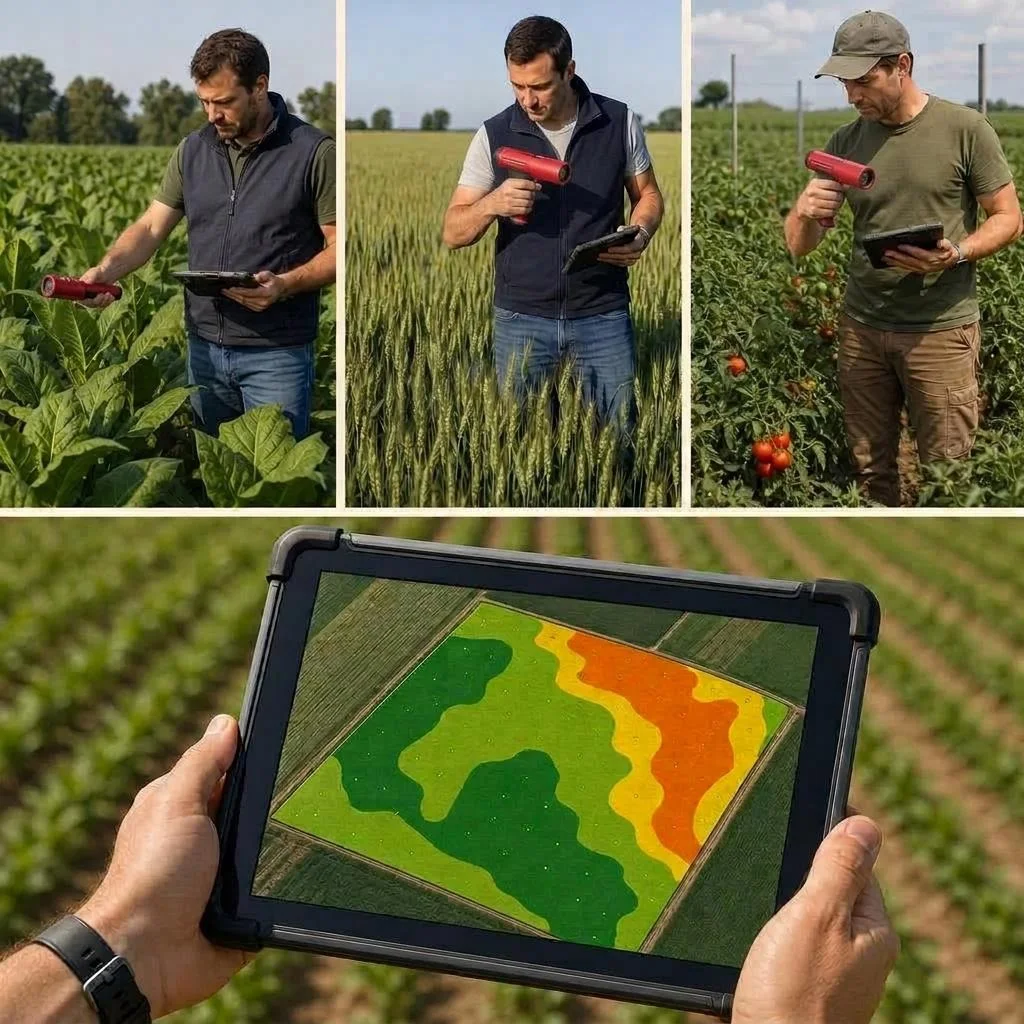
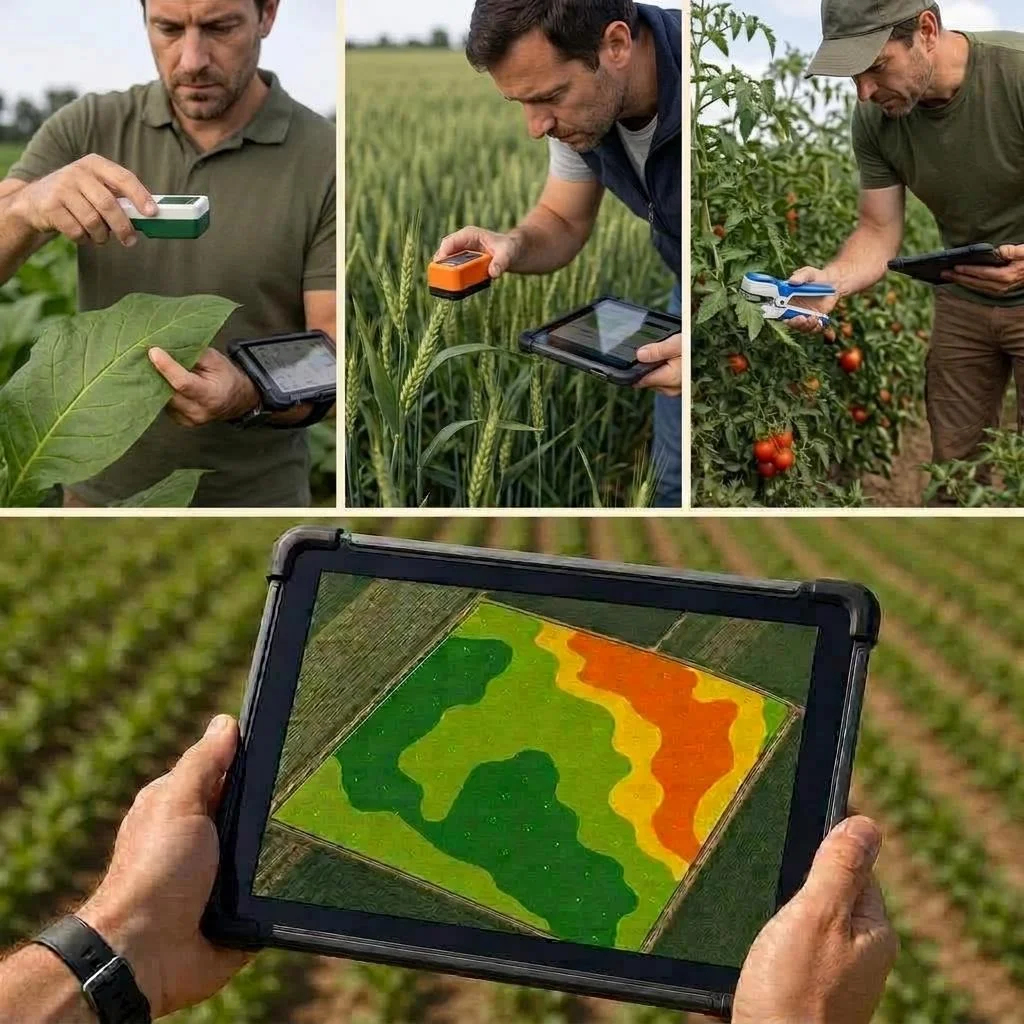
Update login documentation and security component with new background asset
Replit-Commit-Author: Agent

diff --git a/artifacts/ndvi-tabacco/src/security/SecurityRoot.tsx b/artifacts/ndvi-tabacco/src/security/SecurityRoot.tsx
@@ -108,7 +108,19 @@ const signInAppearance = {
   elements: {
     cardBox: { background: "#f6fbf2", border: "1px solid #b9d6a8", boxShadow: "0 22px 50px -28px rgba(29,90,52,.45)" },
     headerTitle: { color: "#12301d" },
-    headerSubtitle: { color: "#3d5a46" },
+    headerSubtitle: {
+      color: "#164b2a",
+      fontSize: "clamp(1.05rem, 2.3vw, 1.25rem)",
+      fontWeight: 700,
+      lineHeight: 1.4,
+      letterSpacing: "-0.01em",
+      background: "#e2f0d8",
+      border: "1px solid #b9d6a8",
+      borderBottom: "3px solid #4f8352",
+      borderRadius: "0.85rem",
+      padding: "0.8rem 0.9rem",
+      marginTop: "0.8rem",
+    },
     formFieldLabel: { color: "#12301d" },
     formFieldInput: { background: "#fbfef8", color: "#12301d", border: "1px solid #a9cc96" },
     formButtonPrimary: "nc-signin-primary",

diff --git a/.agents/memory/login-artwork.md b/.agents/memory/login-artwork.md
@@ -8,3 +8,9 @@ Nei tre riquadri dell’immagine di accesso (tabacco, grano e pomodoro), il sens
 **Why:** l’utente ha chiesto esplicitamente che il sensore sia sempre visibile oltre la scheda, modificando i tre riquadri.
 
 **How to apply:** quando si cambia l’immagine o la posizione delle schede, controllare la visibilità completa di tutti e tre i sensori sia su desktop sia su smartphone.
+
+I tre sensori devono differire per forma e colore e stare vicino alle foglie, con operatori adattati per mostrare la misurazione delle piante, non strumenti sollevati lontano dalla vegetazione.
+
+**Why:** l’utente ha precisato che il sensore deve essere sempre vicino alle foglie e che i tre riquadri non devono mostrare sempre lo stesso strumento.
+
+**How to apply:** verificare insieme visibilità sopra la scheda e vicinanza effettiva fra sensore e foglia; non risolvere l’occlusione alzando soltanto lo strumento.
